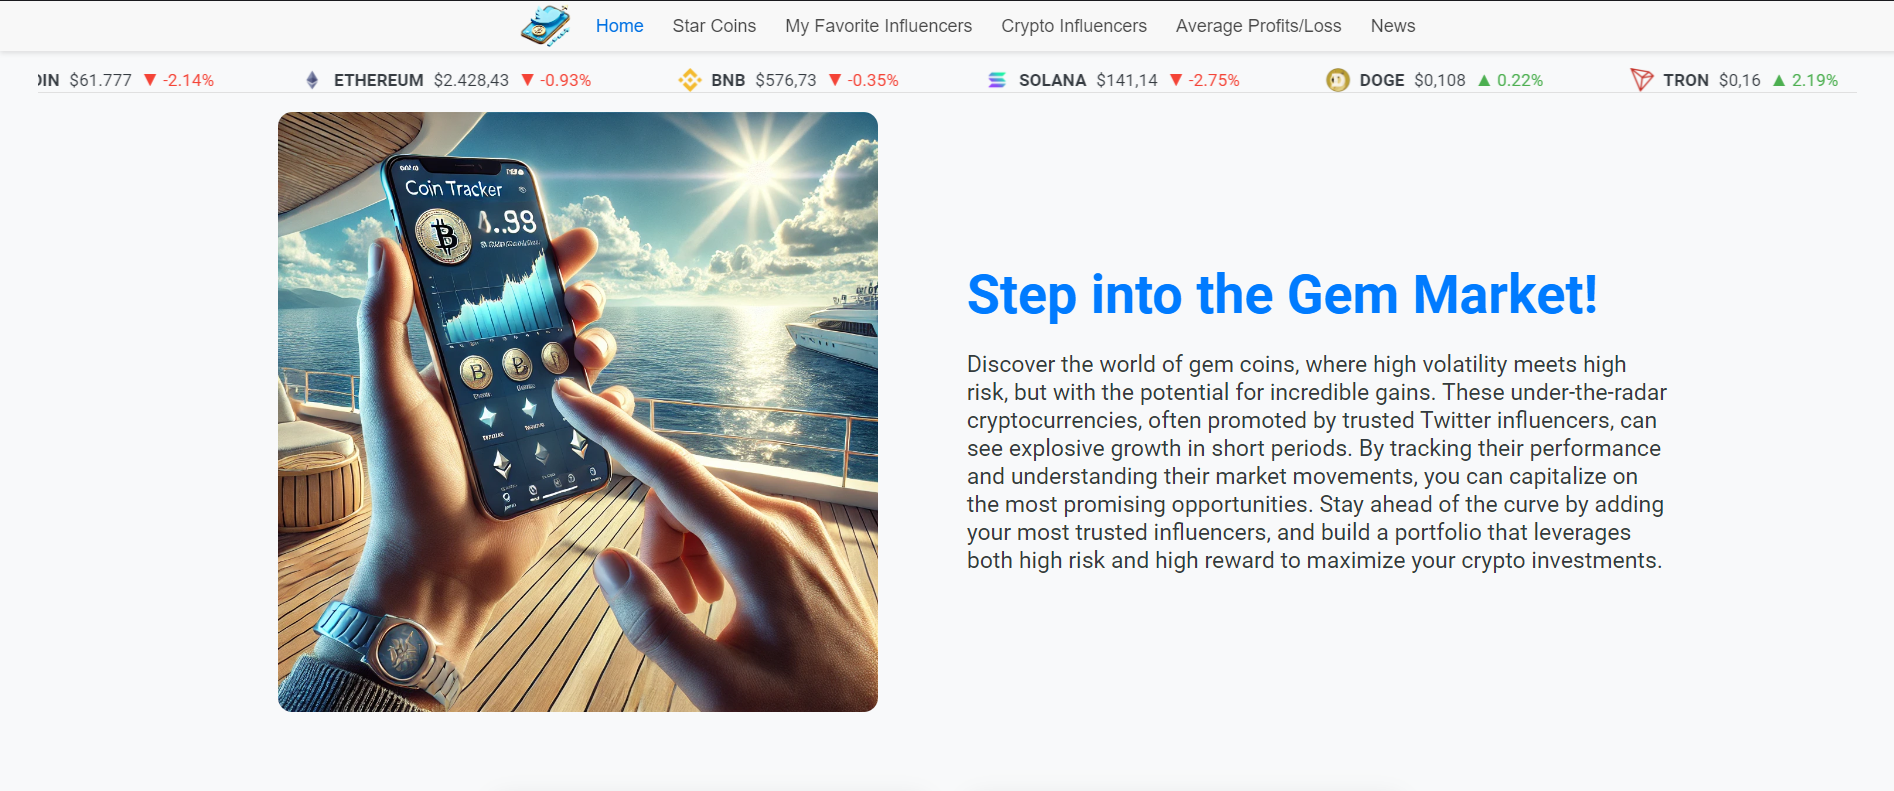
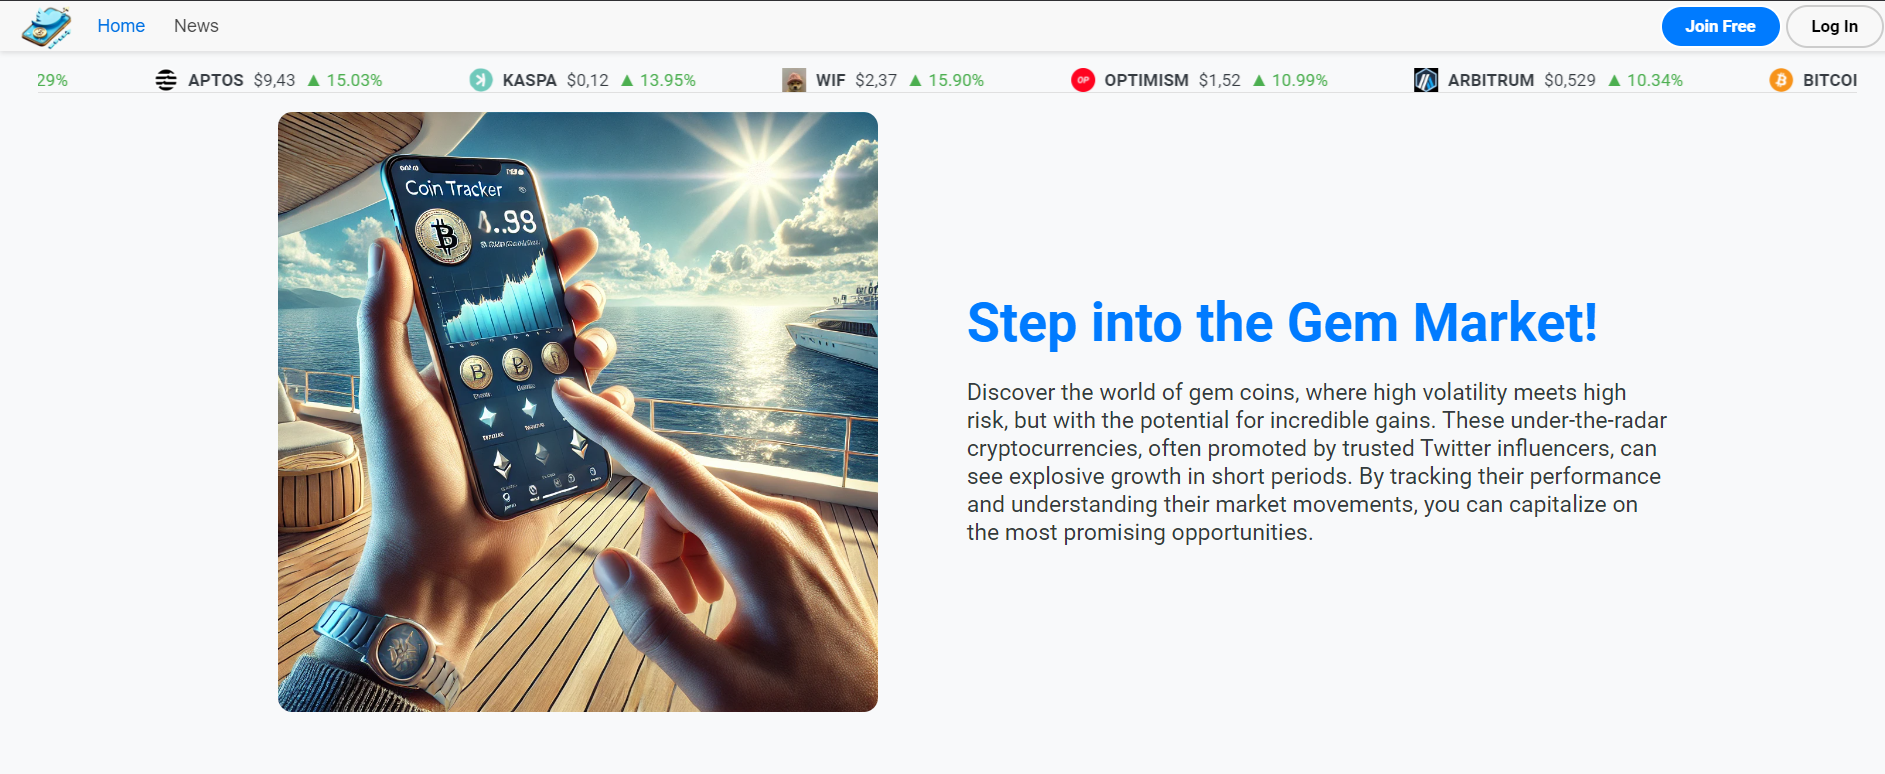
up

diff --git a/README.md b/README.md
@@ -4,7 +4,7 @@
 
 ## 📈 Project Description
 
-**Coin-Tracker** is a comprehensive web application that allows users to track the performance of coins shared by their favorite crypto influencers, manage their favorite coins, and perform average profit/loss analysis. The application fetches real-time data using the **DexScreener API** to provide current price and market cap information. Additionally, it delivers the most up-to-date cryptocurrency news via **RSS feeds**, allowing users to read the latest news directly within the app. Coin-Tracker aims to provide valuable insights for crypto investors by focusing on the success of influencers' shared coins, helping users navigate the high-risk, high-reward **GEM market** by relying on insights from influencers through its user-friendly interface and efficient data management.
+**Coin-Tracker** is a personalized cryptocurrency analysis application that allows users to track coins shared by their favorite crypto influencers, add and manage their own influencers and coins, and perform average profit/loss analysis based on the coins they follow. The app fetches real-time data from the **DexScreener API** for up-to-date price and market cap information and delivers the latest cryptocurrency news via **RSS feeds** directly within the app. With its user-friendly interface and efficient data management, Coin-Tracker provides valuable insights for navigating the **GEM market**, allowing users to make informed, high-risk, high-reward investment decisions.
 
 🔗 **Live Demo:** [Access Coin-Tracker Here](https://cointracker-canozgen.netlify.app/)
 
@@ -13,73 +13,99 @@
 ## 🖼 Application Screenshots
 
 ### **Home Page**
-The home page displays a real-time ticker of top 50 coin prices, along with key insights such as **Influencer with Highest Average Profit**, **Top Performing Coin**, and **Influencer with Most Coins**.
+The home page displays a live ticker of the top 50 coins, as well as personalized insights like **Influencer with Highest Average Profit**, **Top Performing Coin**, and **Influencer with Most Coins**.
 
 ![Home Page](./screenshots/home.PNG)
-
 
 ---
 
 ### **Influencers Page**
-The page where users can manage their favorite influencers they follow.
+The Influencers Page is divided into **My Influencers Page** and **Admin Influencers Page**:
 
-![Influencers Page](./screenshots/Influencers.PNG)
+- **My Influencers Page**: Users can view and manage their added influencers. They can add or remove favorites and track the performance of coins shared by these influencers.
+  
+- **Admin Influencers Page**: This page displays influencers added by the admin. Users can:
+  - **View Admin Influencers and Their Coins**: Users can see admin-added influencers and the performance of coins shared by them, though they cannot modify these entries.
+  - **Notification Settings**: Users can enable notifications for admin influencers. By clicking the notification button and entering their email, they will receive an email notification each time the admin adds a new influencer or coin.
+
+![MyInfluencers Page](./screenshots/MyInfluencers.PNG)
+![AdminInfluencers Page](./screenshots/AdminInfluencers.PNG)
 
 ---
 
 ### **News Page**
-The RSS feed page that displays the latest cryptocurrency news for users.
+The RSS feed page displays the latest cryptocurrency news, allowing users to stay updated on the latest trends in the crypto world.
 
 ![News Page](./screenshots/news.PNG)
 
 ---
 
 ### **Starred Coins - Mobile View**
-The mobile version of the "Starred Coins" section, allowing users to manage favorite coins easily on smaller devices.
+The mobile view of the "Starred Coins" section allows users to manage their favorite coins easily on smaller devices.
 
 ![Starred Coins Mobile](./screenshots/star-coins-mobile.PNG)
 
 ---
 
 ### **Profit/Loss Table**
-A detailed table showing the average profit/loss analysis of influencers.
+This table provides each user with a personalized average profit/loss analysis based on the coins of influencers they have added. This feature helps users evaluate their investments more effectively.
 
 ![Profit/Loss Table](./screenshots/profit-loss-table.PNG)
 
 ---
 
 ### **Favorite Influencers Page**
-Where users can manage their favorite influencers, who they trust the most for crypto insights.
+The page where users can manage their favorite influencers. Users can track the performance of their most trusted influencers and add or remove them from their favorites.
 
 ![Favorite Influencers Page](./screenshots/favorite-influencers-mobile.PNG)
 
 ---
 
-### **User Profile Page**
-Each user's profile page where specific information about their coin performance is displayed.
+### **Influencer Coins Page**
+The **Influencer Coins Page** allows users to view the detailed performance of coins shared by their selected influencers. On this page, users can:
 
-![User Profile Page](./screenshots/user-page.PNG)
+- **Favorite Actions**: Add or remove coins from favorites.
+- **Coin Management**: Users can edit or delete coins shared by their own influencers. However, they do not have permission to edit or delete coins shared by admin influencers.
+- **Coin Performance**: View real-time performance and personalized analysis of each coin.
+
+This feature provides detailed information on the coins shared by influencers, helping users better manage their investment strategies.
+
+![Influencer Coins Page](./screenshots/influencer-coins-page.PNG)
+
+---
+
+### **Authentication**
+The app includes an **authentication** feature, allowing users to register and log in to create personalized profiles and tailor their experience within the app. Key features enabled by authentication:
+
+- **Sign Up & Log In**: Users can create their accounts and log in to access personalized features.
+- **Personal Influencer Management**: Registered users can add and manage their own influencers, set favorites, and track the performance of coins associated with them.
+- **Admin Influencer Access**: Each user can view the influencers and coins added by the admin but cannot edit these entries.
+- **Notification Settings**: Users can enable notifications for admin influencers and enter their email to receive instant notifications whenever the admin adds a new influencer or coin.
+
+These features make Coin-Tracker a user-friendly platform, allowing each user to conduct personal investment analysis.
 
 ---
 
 ## 🛠 Technologies Used
 
-### **Frontend:**
+### Frontend:
 - **React**: Core framework for building the user interface.
 - **React Router DOM**: For navigation between pages.
 - **Axios**: For managing HTTP requests.
-- **FontAwesome**: For icon usage.
+- **FontAwesome** & **React Icons**: For icon usage.
 - **React Beautiful DnD**: For drag-and-drop functionality.
 - **React Fast Marquee**: For smooth scrolling text.
-- **React Icons**: For additional icons.
 - **React Number Format**: For formatting numerical data.
 - **CSS Grid & Flexbox**: For creating responsive and flexible layouts.
 - **Responsive Design**: Ensuring adaptability across various devices using media queries.
 
-### **Backend:**
+### Backend:
 - **Node.js & Express**: For server-side development.
 - **MongoDB & Mongoose**: For database management.
 - **Axios**: For interacting with external APIs.
 - **Cors**: For managing CORS policies.
 - **Dotenv**: For handling environment variables.
 - **Body-Parser**: For parsing the body of HTTP requests.
+- **Nodemailer**: A library for sending emails, used for sending notification emails to users.
+- **Gmail SMTP**: The Gmail SMTP server is used to securely send notification emails to users.
+
